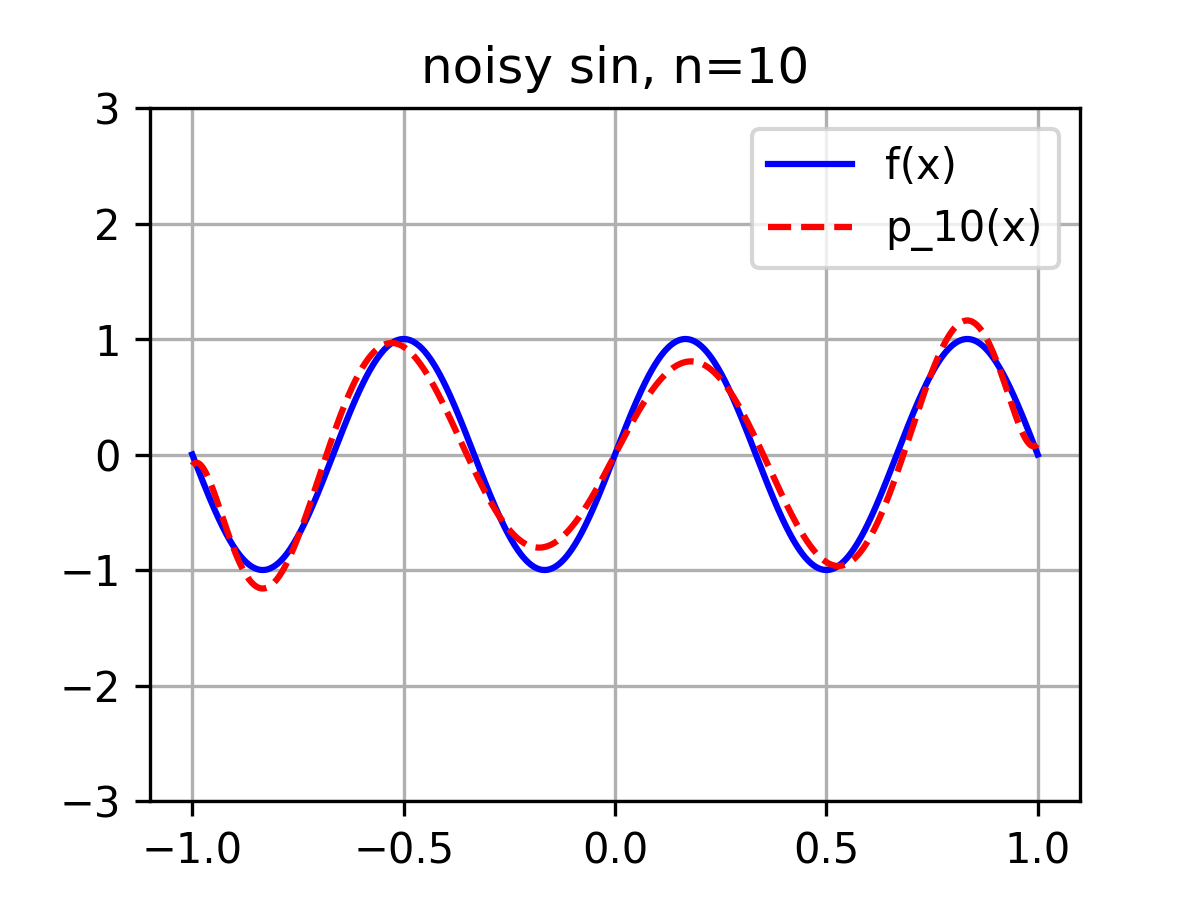
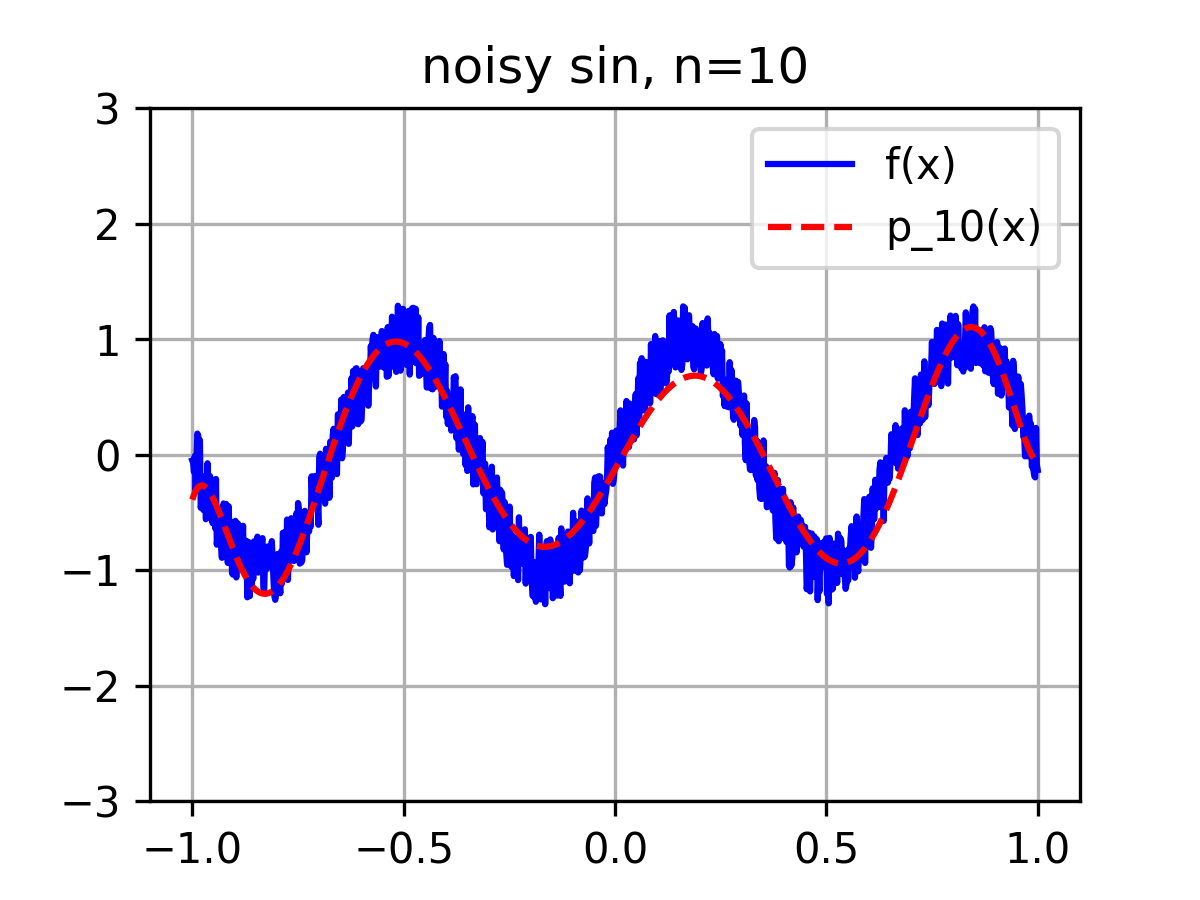
meow-meow-meow-AUGHAGUAGHAUGH

Changed region(s): [[0.1542, 0.3422, 0.8633, 0.6844]]

diff --git a/part1.py b/part1.py
@@ -42,7 +42,8 @@ import matplotlib.pyplot as plt
 funcs = {
     'sin(x)': lambda x: np.sin(x * 3 * np.pi),
     'cos(x)': lambda x: np.cos(x * 3 * np.pi),
-    'noisy sin': lambda x: np.sin(x * 3 * np.pi) + np.random.uniform(-1e-6,1e-6, size=x.shape),
+    'meow meow meow AUGHAGHAHG': lambda x: np.sin(x ** 2 * 3 * np.pi + 1) + np.cos(2.7*np.cbrt(x)*3*np.pi - 1),
+    'noisy sin': lambda x: np.sin(x * 3 * np.pi) + np.random.uniform(-3e-1,3e-1, size=x.shape),
     'poly': lambda x: 0.9*x**10-0.5*x**5 - x**3 + 2*x**2 + x - 1
 }
 ns = list(range(2, 51)) + [256]
